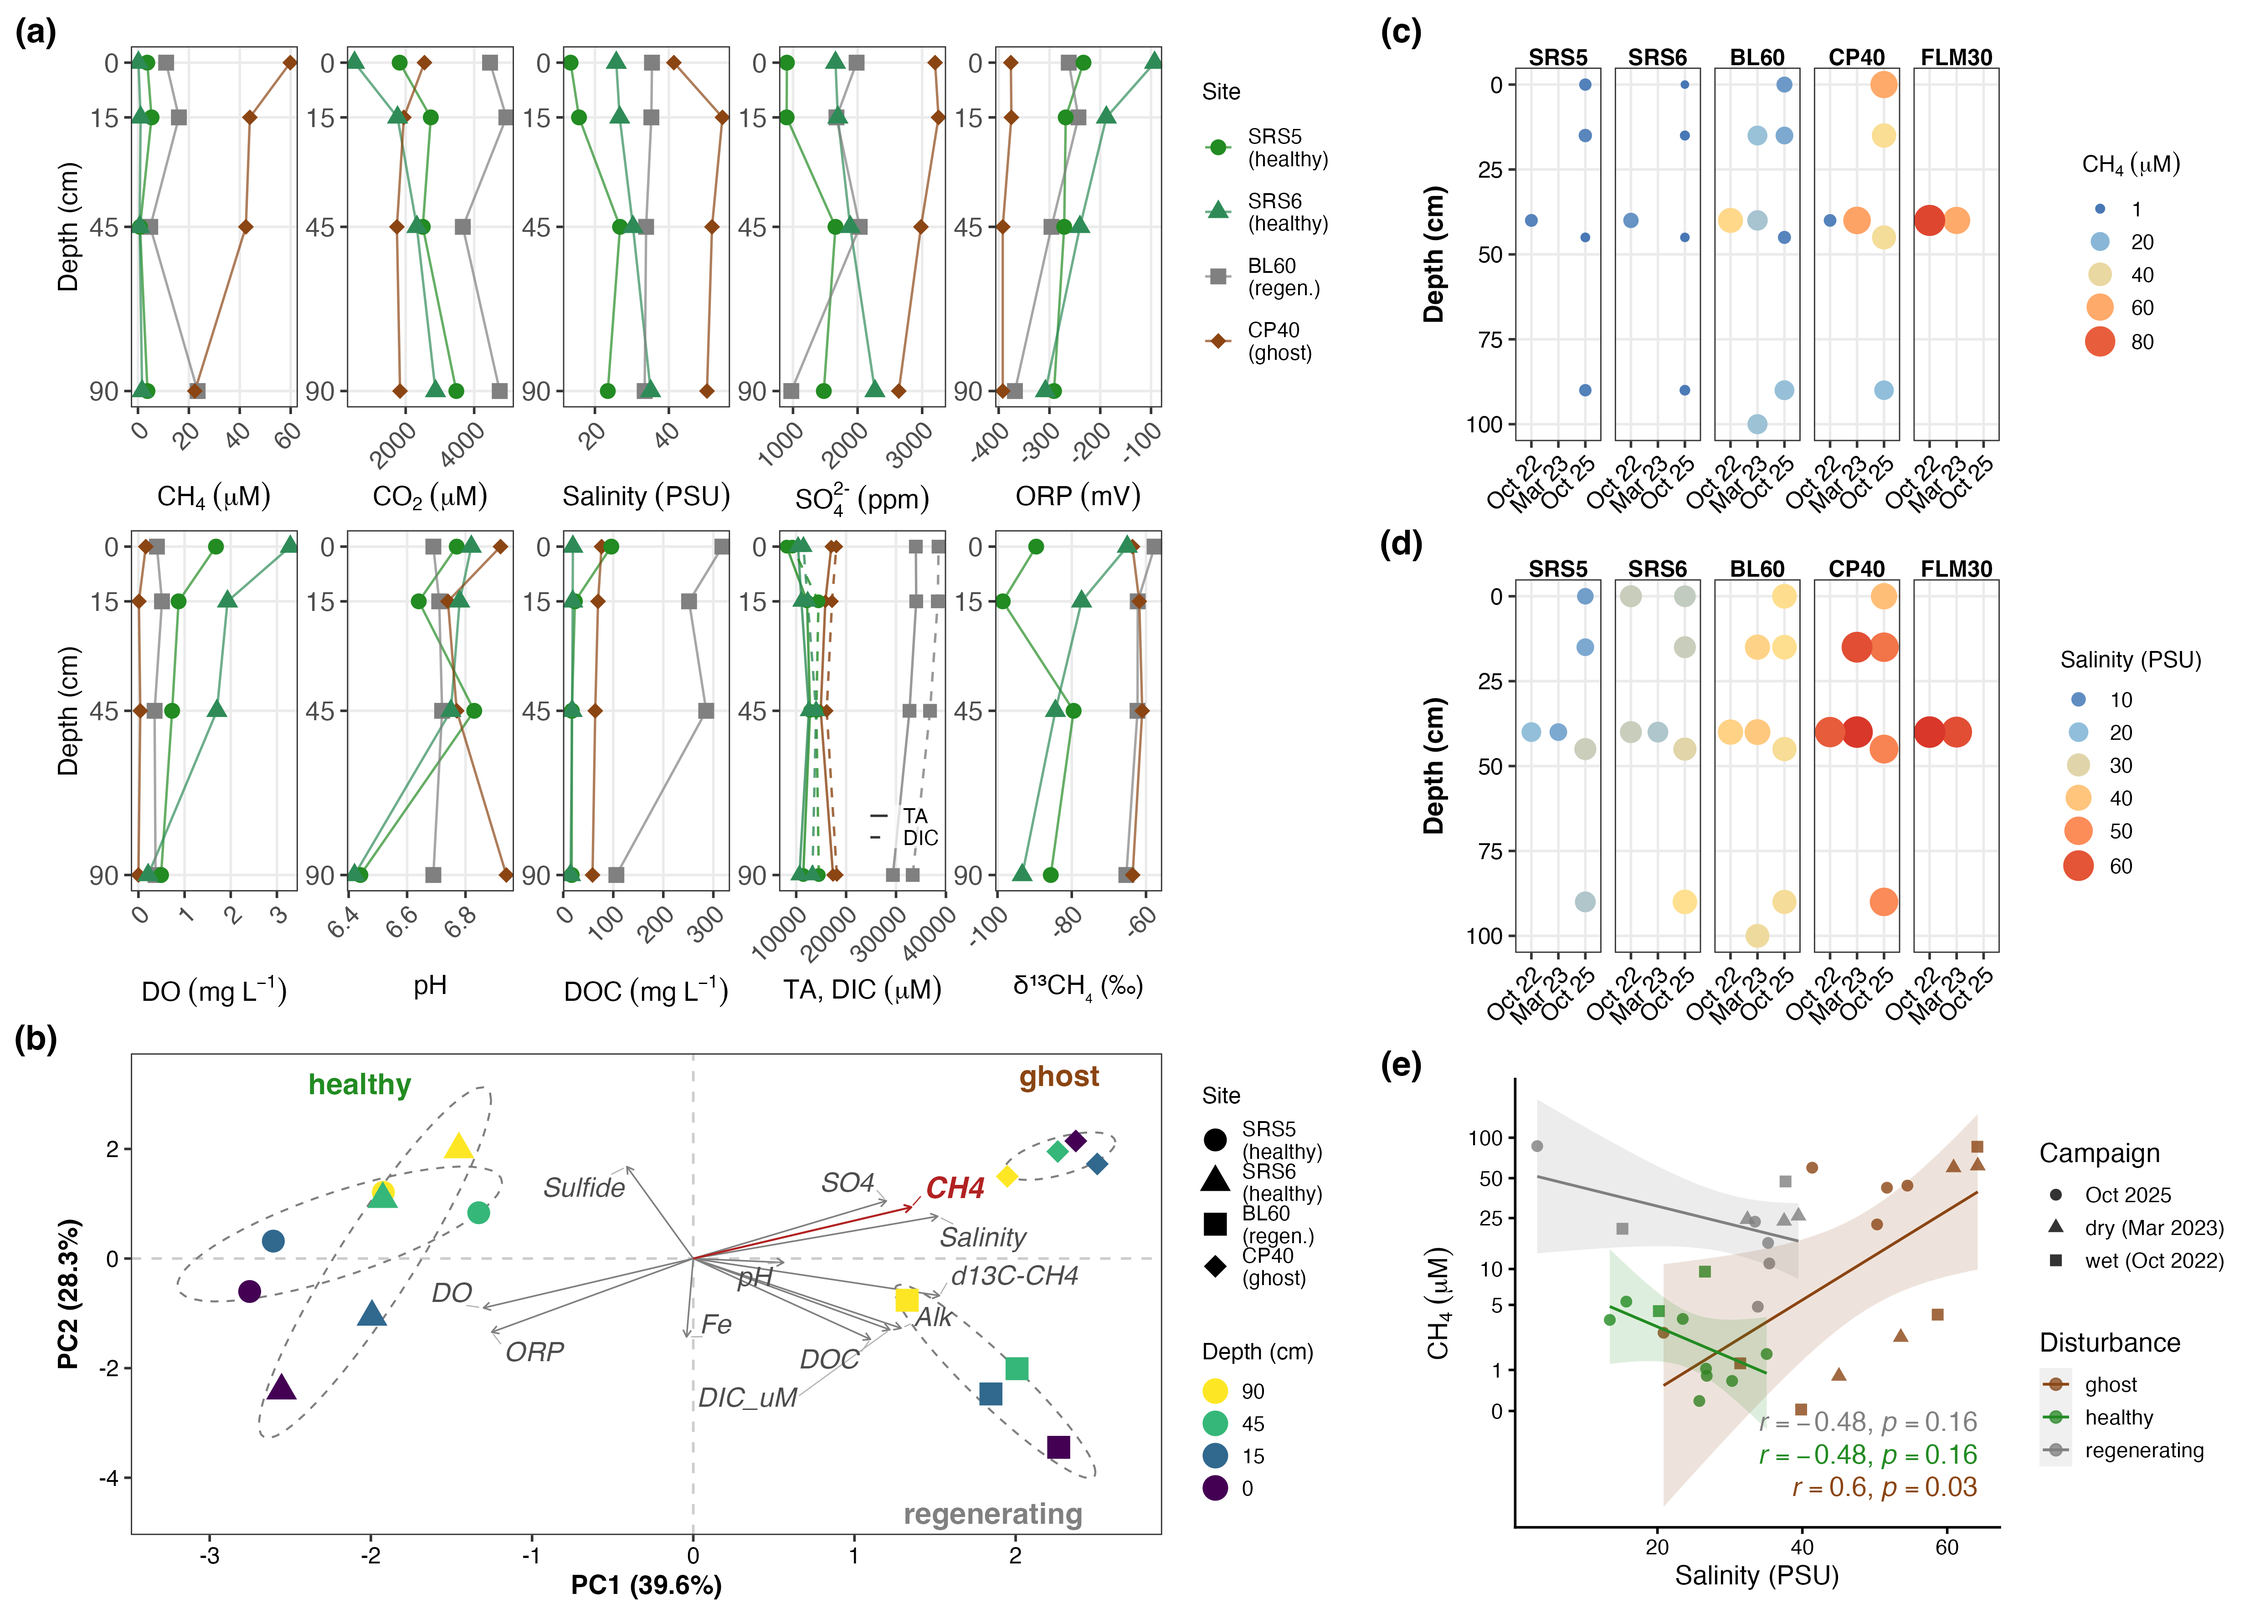
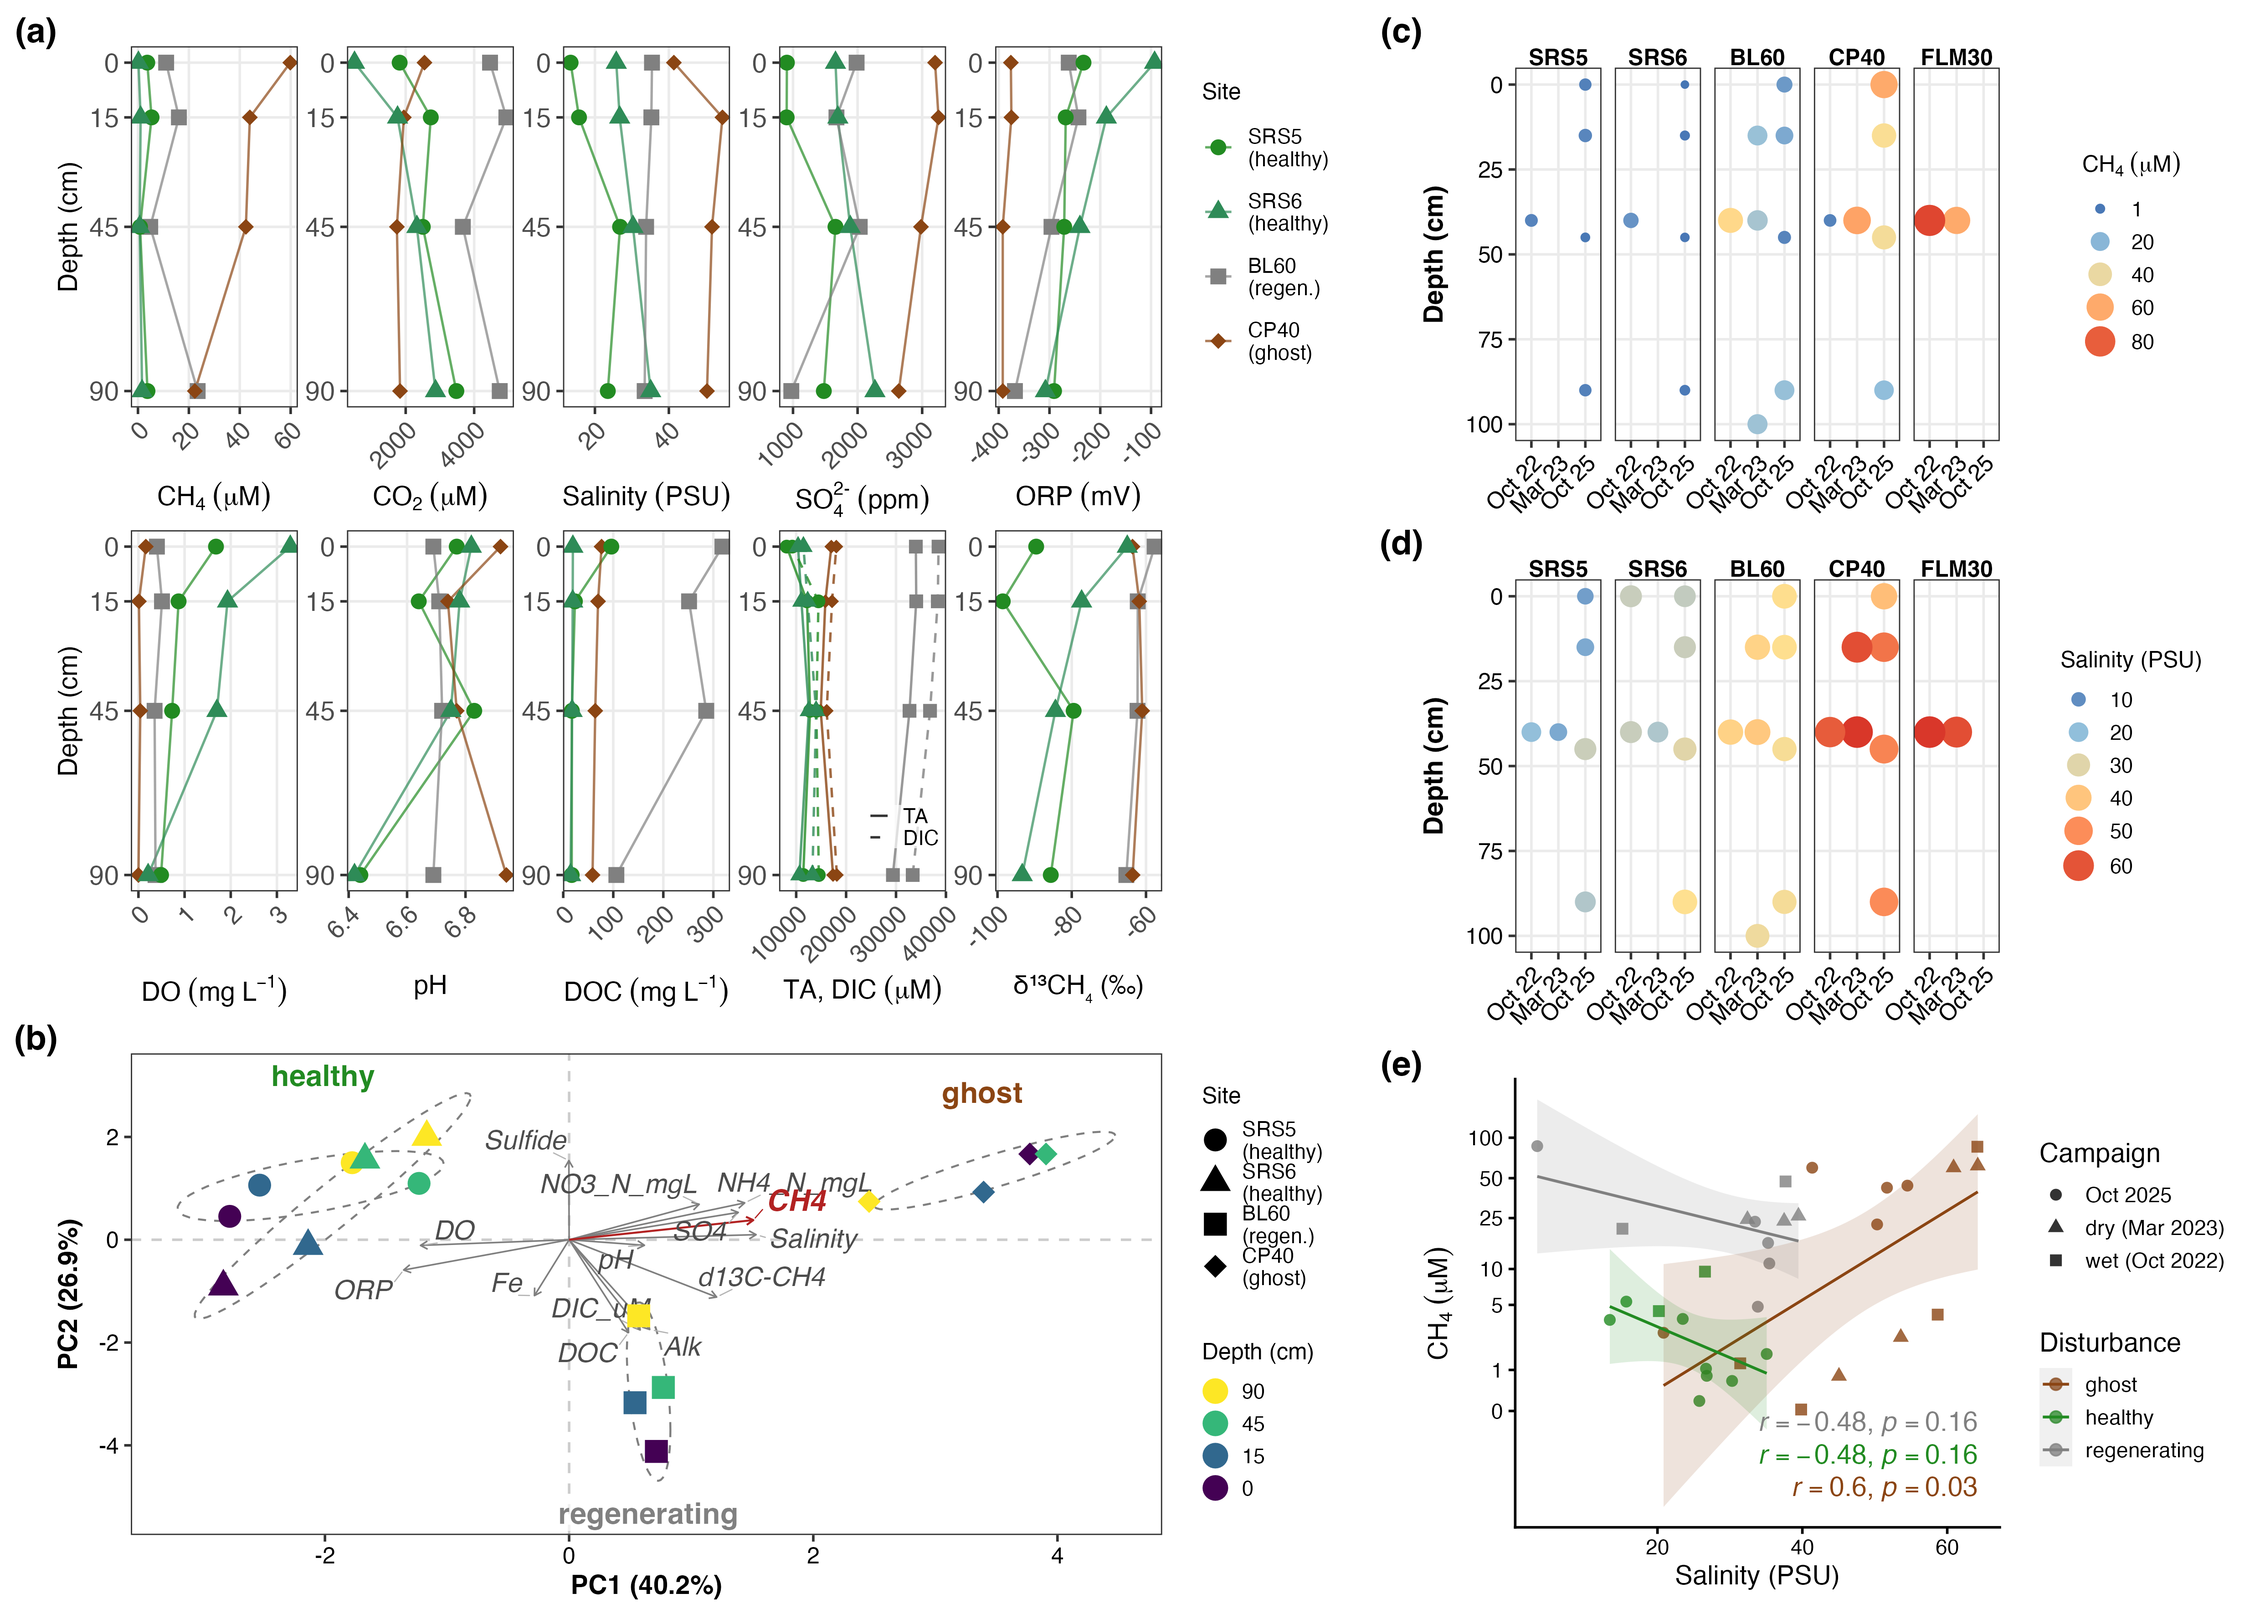
Porewater NH4/NO3 in the PCA (below detection = 0) and profiles; PCA text and SI updated; N method placeholder

diff --git a/manuscript/SI/manuscript_NCC_SI.md b/manuscript/SI/manuscript_NCC_SI.md
@@ -64,7 +64,7 @@ Tower GPP was obtained by partitioning observed half-hourly NEE. Ecosystem respi
 
 ### S.M11 Porewater geochemistry
 
-Porewater was collected at four sites (SRS5, SRS6, BL60, CP40) at five depths (surface, 0, 15, 45 and 90 cm below the sediment surface) with MHE PushPoint samplers during the dry-season campaign. Temperature, pH, electrical conductivity, dissolved oxygen and oxidation–reduction potential were measured in the field (Hanna HI98494). Sulfide and ferrous iron were determined colorimetrically in the field immediately after sampling (Hach DR900; sulfide methylene-blue method, reagents 1816/1817; iron FerroVer, reagent 2105769). Dissolved CH4 and CO2 concentrations and stable carbon isotopes (δ13C-CH4, δ13C-CO2) were measured by headspace equilibration in syringes on a Picarro G2201-i cavity ring-down spectrometer with SAM autosampler and ultra-zero-air carrier at Yale University. Dissolved organic carbon (Shimadzu TOC), major ions (sulfate, chloride, nitrate, phosphate; Metrohm ion chromatograph) and total alkalinity (titration) were measured at the Yale Analytical and Stable Isotope Center (YASIC).
+Porewater was collected at four sites (SRS5, SRS6, BL60, CP40) at five depths (surface, 0, 15, 45 and 90 cm below the sediment surface) with MHE PushPoint samplers during the dry-season campaign. Temperature, pH, electrical conductivity, dissolved oxygen and oxidation–reduction potential were measured in the field (Hanna HI98494). Sulfide and ferrous iron were determined colorimetrically in the field immediately after sampling (Hach DR900; sulfide methylene-blue method, reagents 1816/1817; iron FerroVer, reagent 2105769). Dissolved CH4 and CO2 concentrations and stable carbon isotopes (δ13C-CH4, δ13C-CO2) were measured by headspace equilibration in syringes on a Picarro G2201-i cavity ring-down spectrometer with SAM autosampler and ultra-zero-air carrier at Yale University. Dissolved organic carbon (Shimadzu TOC), major ions (sulfate, chloride, nitrate, phosphate; Metrohm ion chromatograph) and total alkalinity (titration) were measured at the Yale Analytical and Stable Isotope Center (YASIC). Dissolved inorganic nitrogen (NO3-N and NH4-N) was measured at Yale [PLACEHOLDER — method, instrument, detection limit, and any dilution before analysis (the IC anions were run 1:10), to confirm with the analytical lab]; values below detection are entered as zero.
 
 ### S.M12 Net radiative forcing and landscape scaling
 
@@ -72,7 +72,7 @@ Component CH4 fluxes were converted to CO2 equivalents using 20- and 100-year gl
 
 ### S.M13 Statistical analysis
 
-Fluxes were transformed with the inverse hyperbolic sine (asinh) before modelling; asinh accommodates positive and negative values, approximates the natural logarithm for large values and is linear near zero. Component summaries and 95% CIs used nonparametric bootstrap resampling (5,000 iterations, percentile method) stratified by component, site, season and class. Stem species and height effects used linear mixed-effects models (lme4/lmerTest) with site as a random intercept; three formulations were evaluated — (1) species + continuous height + season; (2) species × height category (0–50, 50–100, 100–150 cm) + season; (3) species–status combinations (alive/dead *A. germinans* and *R. mangle* separate; *C. erectus* and *L. racemosa* pooled) + height category + season — restricted to sites with species identification (BL60, SRS5, SRS6; species with n ≥ 5). Estimated marginal means were computed on the asinh scale, back-transformed via sinh, and compared with Tukey-adjusted contrasts and Type III F-tests. Porewater structure used principal-components analysis on 11 centred, scaled variables (salinity, dissolved CH4, sulfate, δ13C-CH4, ORP, dissolved O2, sulfide, iron, DOC, alkalinity, dissolved CO2) across all site–depth combinations. Budget and forcing uncertainty was propagated by Monte Carlo (5,000 draws) combining bootstrapped chamber flux densities, the leaf term (Rd25 ~ U[1.28, 1.62]; LAI lognormal with median 2.8 and 5.55 at the upper 97.5 %; daytime inhibition triangular on 0.2–0.5 with mode 0.3), the downed-wood area (lognormal over the Krauss range), tower GPP uncertainty and the CH4 budget total. Analyses were run in R (≥4.3).
+Fluxes were transformed with the inverse hyperbolic sine (asinh) before modelling; asinh accommodates positive and negative values, approximates the natural logarithm for large values and is linear near zero. Component summaries and 95% CIs used nonparametric bootstrap resampling (5,000 iterations, percentile method) stratified by component, site, season and class. Stem species and height effects used linear mixed-effects models (lme4/lmerTest) with site as a random intercept; three formulations were evaluated — (1) species + continuous height + season; (2) species × height category (0–50, 50–100, 100–150 cm) + season; (3) species–status combinations (alive/dead *A. germinans* and *R. mangle* separate; *C. erectus* and *L. racemosa* pooled) + height category + season — restricted to sites with species identification (BL60, SRS5, SRS6; species with n ≥ 5). Estimated marginal means were computed on the asinh scale, back-transformed via sinh, and compared with Tukey-adjusted contrasts and Type III F-tests. Porewater structure used principal-components analysis on 13 centred, scaled variables (salinity, dissolved CH4, sulfate, δ13C-CH4, ORP, dissolved O2, pH, sulfide, iron, DOC, alkalinity, NO3-N, NH4-N; inorganic N below detection entered as 0) across all site–depth combinations. Budget and forcing uncertainty was propagated by Monte Carlo (5,000 draws) combining bootstrapped chamber flux densities, the leaf term (Rd25 ~ U[1.28, 1.62]; LAI lognormal with median 2.8 and 5.55 at the upper 97.5 %; daytime inhibition triangular on 0.2–0.5 with mode 0.3), the downed-wood area (lognormal over the Krauss range), tower GPP uncertainty and the CH4 budget total. Analyses were run in R (≥4.3).
 
 ### S.M14 Literature-derived values and how they enter the budget
 

diff --git a/manuscript/drafts/manuscript_NCC_draft.md b/manuscript/drafts/manuscript_NCC_draft.md
@@ -52,7 +52,7 @@ The regenerating class, though lacking TLS structure and top-down closure, had t
 
 ### A biogeochemical regime shift (Fig. 5)
 
-Porewater chemistry differed systematically across the disturbance gradient (Fig. 5). A principal-components analysis of 11 porewater variables explained 83.5% of variance in three components; the first (40.4%) was loaded by salinity (+0.43), dissolved CH4 (+0.40), sulfate (+0.37) and d13C-CH4 (+0.36), opposed by ORP (-0.38) and dissolved oxygen (-0.36), and separated ghost and regenerating sites (high PC1) from intact sites (low PC1; Fig. 5a). Dissolved porewater methane was an order of magnitude higher at disturbed sites — highest at FLM30 (73 uM) and CP40 (36 uM) versus SRS6 (5 uM) and SRS5 (4 uM) — despite porewater salinities of 50-64 PSU at ghost sites versus 20-30 PSU at intact sites.
+Porewater chemistry differed systematically across the disturbance gradient (Fig. 5). A principal-components analysis of 13 porewater variables explained 81.4% of variance in three components; the first (42.6%) was loaded by dissolved CH4 (+0.39), salinity (+0.39), ammonium (+0.38) and sulfate (+0.36), opposed by ORP (-0.35) and dissolved oxygen (-0.30), and separated ghost and regenerating sites (high PC1) from intact sites (low PC1; Fig. 5a). Porewater ammonium was 200-320 uM at CP40, 3-21 uM at BL60 and below detection at the intact sites, and tracked dissolved methane (Spearman rho = 0.88) and salinity (rho = 0.86) — consistent with the loss of root uptake and the decomposition of dead root biomass after mortality. _[CHECK: confirm with the analytical lab whether the inorganic-N samples were diluted before analysis (the IC anions were run 1:10), and the reason for negative values in the SRS5/SRS6 batch.]_ Dissolved porewater methane was an order of magnitude higher at disturbed sites — highest at FLM30 (73 uM) and CP40 (36 uM) versus SRS6 (5 uM) and SRS5 (4 uM) — despite porewater salinities of 50-64 PSU at ghost sites versus 20-30 PSU at intact sites.
 
 The salinity-methane relationship reversed with disturbance (Fig. 5b). Within intact and regenerating forest, porewater salinity and dissolved methane were negatively correlated (r = -0.48, p = 0.16) — the classic signature of sulfate suppression — whereas within ghost forest the relationship inverted to a significant positive correlation (r = 0.60, p = 0.03): methane rose with salinity. Individual ghost sites showed large seasonal swings in dissolved methane at nearly constant salinity (e.g., CP40 ranged 4-62 uM across seasons at 50-63 PSU), inconsistent with salinity control. Hurricane mortality thus overrides the redox-ladder expectation that governs methane in undisturbed saline mangroves.
 
